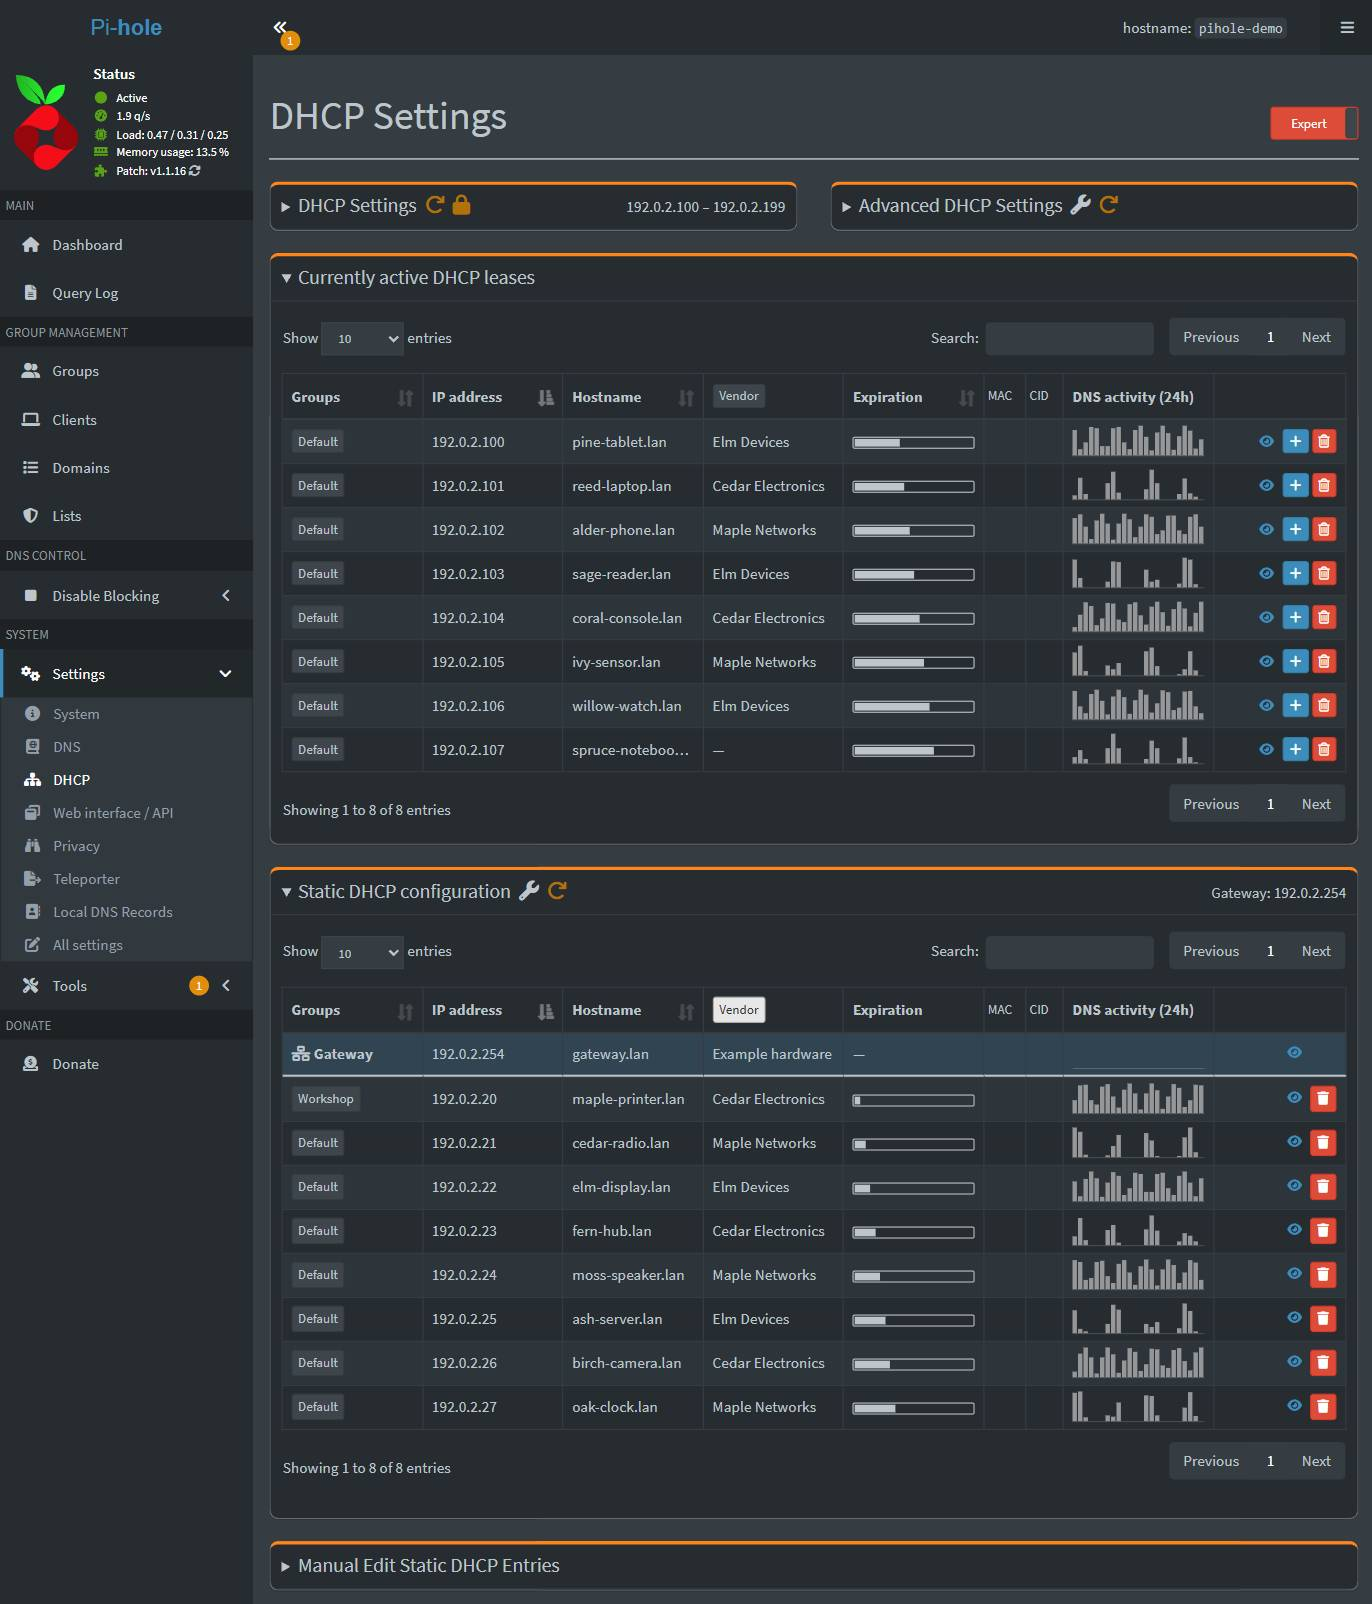
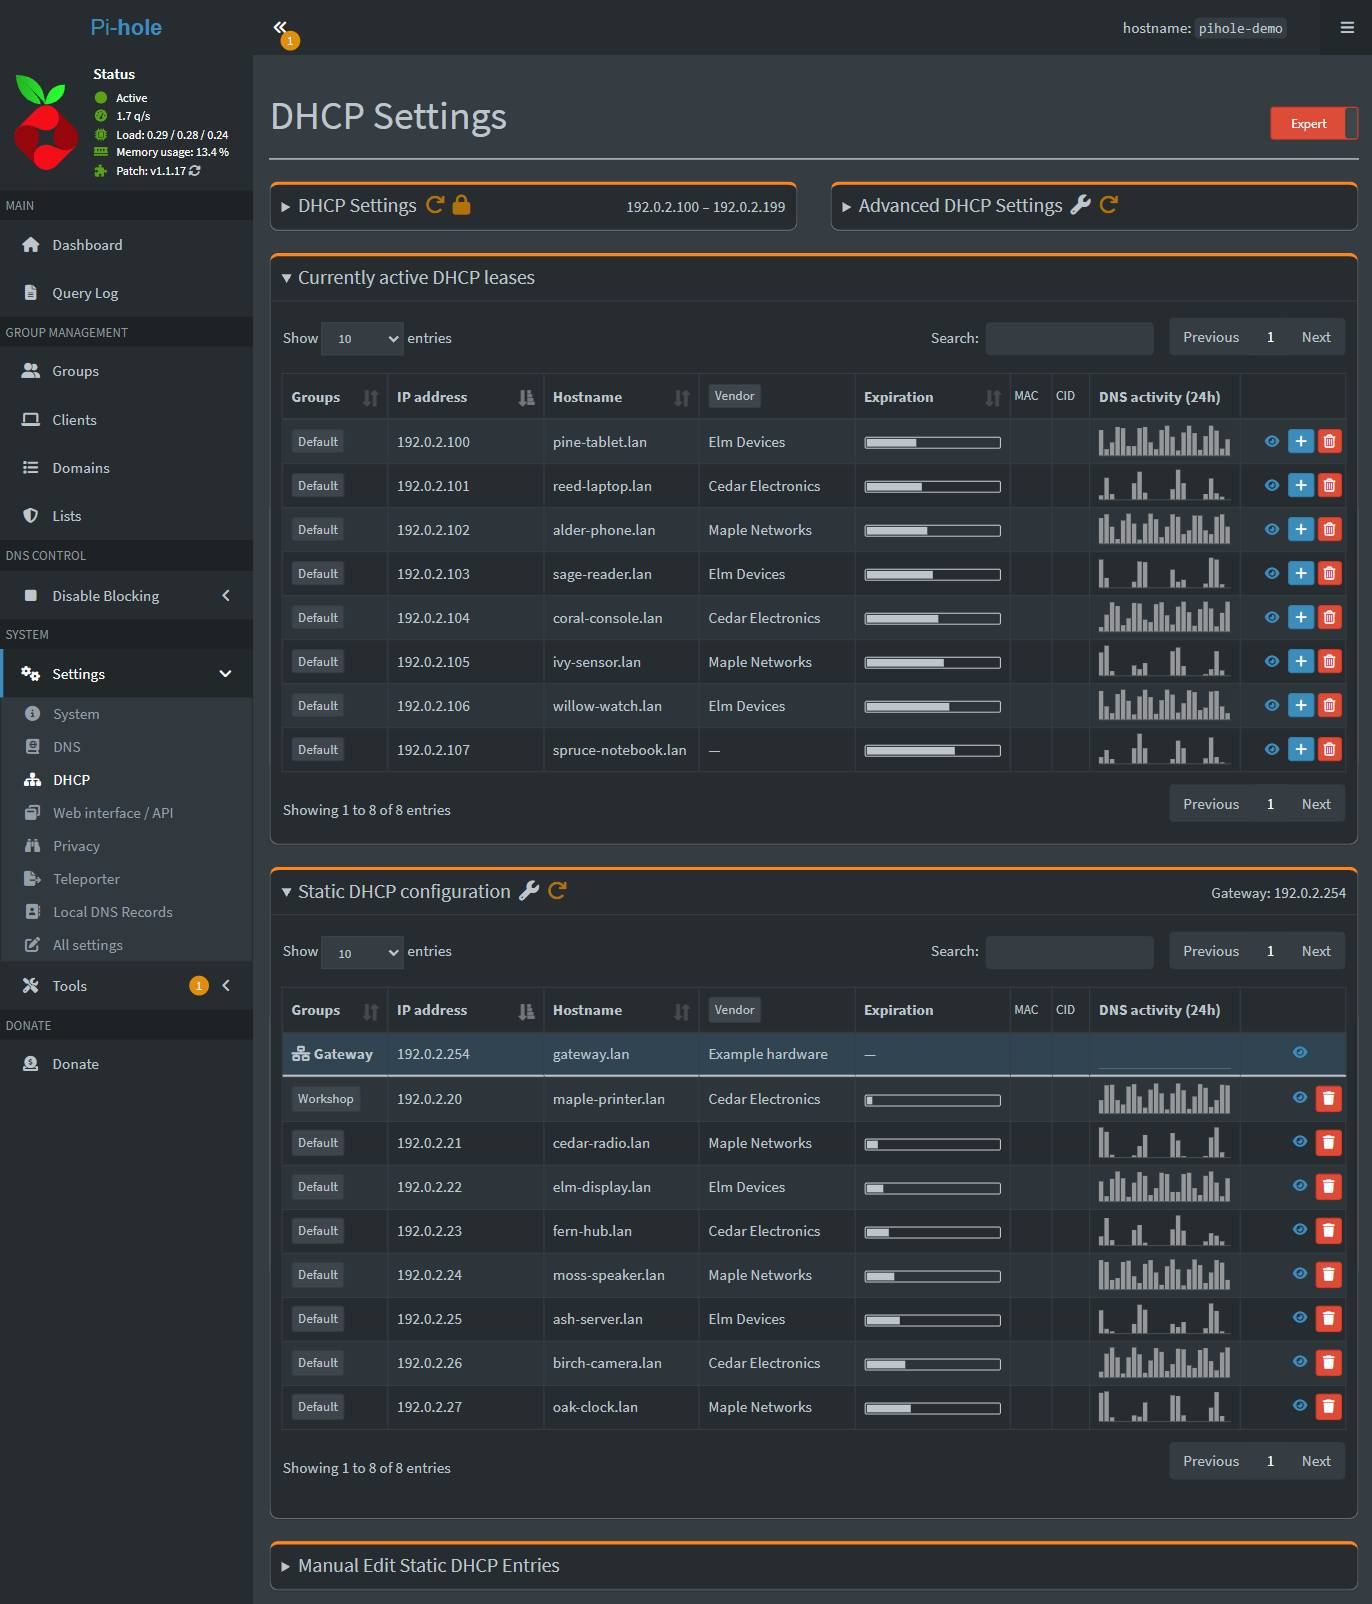
Narrow DHCP group and action columns

diff --git a/docs/check.html b/docs/check.html
@@ -13,7 +13,7 @@ h1 { font-size: 1.5rem; } li { margin-block: .6rem; }
 <p id="status"></p>
 <a href="https://github.com/micassa-pics/pihole-awesome-a-fyer/blob/main/prompts/manage.md">Open the update prompt</a>
 <script>
-const latest = "1.1.16";
+const latest = "1.1.17";
 const installed = new URLSearchParams(location.hash.slice(1));
 const pages = [["dashboard", "Dashboard"], ["dhcp", "DHCP"], ["queries", "Query Log"]].filter(([key]) => installed.has(key));
 const older = pages.filter(([key]) => {
